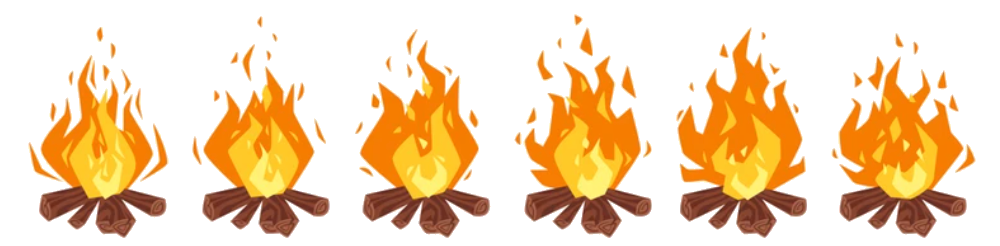
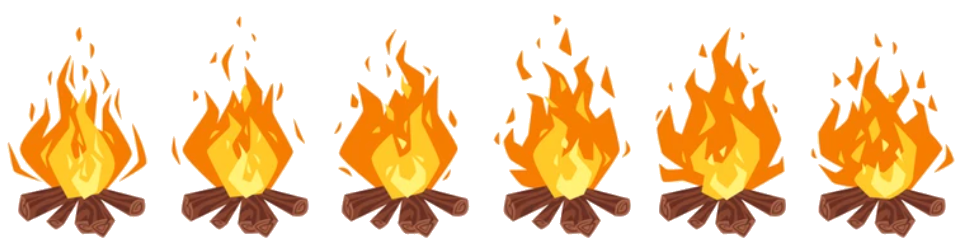
벽난로

diff --git a/src/pages/index.tsx b/src/pages/index.tsx
@@ -19,9 +19,10 @@ import Fireplace from 'components/canvas/Fireplace';
 import { getSession } from 'next-auth/react';
 import CreateLetterModal from 'components/modals/CreateLetterModal';
 import ShowLetterModal from 'components/modals/ShowLetterModal';
+import { useRouter } from 'next/router';
 
 type  Props = {
-    letterCount: number;
+    letterCount: any;
     letters: any;
     userName: string;
     userList?: string[];
@@ -29,78 +30,24 @@ type  Props = {
 
 export default function Index(props: Props) {
     const { letterCount, letters, userName, userList } = props;
-
-    const [move, setMove] = useState(false);
-    const [send, setSend] = useState(false);
+    const router = useRouter();
 
     const { data } = useSWR(
         `/api/letters`,
         fetcher
     );
 
-    const onClickSendLetter = useCallback(
-        async (data: any) => {
-            await postFetcher('/api/letters', data);
-            location.reload();
-        },
-        []
-    );
-
-    // useEffect(() => {
-    //     if (send) {
-    //         onClickSendLetter({from, to, content});
-    //         setSend(false);
-    //         setMove(false);
-    //     }
-    // }, [from, to, content, send, onClickSendLetter]);
-
-    const {
-        register,
-        handleSubmit,
-        formState: { isSubmitting },
-    } = useForm();
-
-    const onSubmit = (data: any) => console.log(data);
-
-    const addressList = useMemo(() => _.map(letters, 'to'), [letters]);
-
     return (
-        <div
-            style={{
-                backgroundImage: 'linear-gradient(CornflowerBlue,midnightblue, black)',
-                zIndex: -9999,
-            }}
-            className={
-                `${styles.container}
-                flex
-                flex-col
-                divide-y
-                divide-double` // TODO: double 스타일 적용
-            }
-        >
-            <div className="divide-y">
-                <div className="px-6 py-8 flex justify-between items-center">
-                    <h1>{userName}의 벽난로</h1>
-                </div>
+        <div className="">
+            <div className='absolute' style={{top: 100, left: 800, width: 500}}>
+                <button className='btn' onClick={() => router.push('/rank')}>랭킹 보기</button>
+                <CreateLetterModal userList={userList} />
+                <ShowLetterModal letters={letters} />
+                <h1 className='text-white'>{userName}의 벽난로</h1>
+                <h2 className='text-white'>{letterCount[userName]?.count ?? 0}개의 편지</h2>
+
             </div>
-            <div className="flex-1 flex flex-col divide-y">
-                <div className="flex-1 p-3 pl-0 flex gap-3 divide-x">
-                    <div className="pl-3 basis-1/4">
-                        <Fireplace letters={letters} />
-                    </div>
-                    <div style={{zIndex:3}}className="pl-3 basis-1/4 text-gray-100">
-                        <CreateLetterModal userList={userList} />
-                        {/* <div className="divide-y">
-                            <LetterList letters={letters} />
-                        </div> */}
-                        <ShowLetterModal letters={letters} />
-                    </div>
-                </div>
-                {/* <PostOffice /> */}
-                {/* <div>
-                    <Charactor image="/images/run.png"  move={move} setSend={setSend}/>
-                </div> */}
-            </div>
+            <Fireplace letters={letters} />
         </div>
     );
 }
@@ -118,7 +65,8 @@ export const getServerSideProps: GetServerSideProps = async (ctx) => {
     // }
     const baseUrl = `http://${ctx.req.headers.host}`;
     const { name } = ctx.query;
-    const { count: letterCount } = await fetch(baseUrl + '/api/letter-count').then((res) => res.json());
+    const groupedLetter = await fetch(baseUrl + '/api/letter-count').then((res) => res.json());
+    const letterCount = _.keyBy(groupedLetter, '_id');
     const userName = name ?? '히히'; //로그인 도입 후 userName으로
     const letters = userName ? await fetch(baseUrl + '/api/letters' + `?name=${userName}`).then((res) => res.json()) : [];
     const users = userName ? await fetch(baseUrl + '/api/users' + `?name=${userName}`).then((res) => res.json()) : [];

diff --git a/src/components/canvas/houseBackground.tsx b/src/components/canvas/houseBackground.tsx
@@ -11,8 +11,6 @@ import { useForm } from 'react-hook-form';
 import { fetcher, postFetcher } from '../../helper/Helper';
 import useSWR from 'swr';
 import _ from 'lodash';
-import NextImage from 'next/image';
-import Bonfire from './Bonfire';
 
 type Props = {
     letters: LetterType[];
@@ -23,24 +21,21 @@ export default function Fireplace(props: Props) {
 
     const canvasRef = useRef<HTMLCanvasElement>(null);
 
-    const fireplaceHeight = 621;
-    const fireplaceWidth = 795;
+    const height = 621;
+    const width = 795;
 
     const renderFireplace = useCallback((canvasContext) => {
-        const background = new Image();
-        background.src = "/images/house_background.png";
-        const fireplace = new Image();
-        fireplace.src = "/images/fireplace.png";
+        const image = new Image();
+        image.src = "/images/fireplace.png";    
 
-        fireplace.onload = () => {
-            canvasContext.drawImage(background, 0, 0, 1920, 1080);
-            canvasContext.drawImage(fireplace, 562, 255, fireplaceWidth, fireplaceHeight);
+        image.onload = () => {
+            canvasContext.drawImage(image, 0, 0, width, height);
 
             // let index = 0;
             // for (var i = 0; i < rowCount; i++) {
             //     for (var j = 0; j < colCount; j++) {
             //         canvasContext.fillStyle = _.includes(addressList, postAdress[index]) ? "#729419" : "#000000";
-            //         canvasContext.fillRect(100 + i * rowInterval, 100 + j * colInterval, windowWidth, windowfireplaceHeight );
+            //         canvasContext.fillRect(100 + i * rowInterval, 100 + j * colInterval, windowWidth, windowHeight );
             //         canvasContext.font = '28px serif';
             //         canvasContext.fillText(postAdress[index], 100 + i * rowInterval, 100 + j * colInterval);
 
@@ -48,7 +43,7 @@ export default function Fireplace(props: Props) {
             //     }
             // }
         };
-    }, [fireplaceHeight, fireplaceWidth]);
+    }, [height, width]);
 
     useEffect(() => {
         const canvas = canvasRef?.current;
@@ -61,11 +56,11 @@ export default function Fireplace(props: Props) {
         <div >
             <canvas 
                 style={{
-                    position: 'relative',
-                    zIndex: -1,
+                    // position: 'absolute',
+                    zIndex: 0,
                 }}
-                id={'canvas'} ref={canvasRef}  height={1080} width={1920} />
-                <Bonfire />
+                id={'canvas'} ref={canvasRef}  height={height} width={width} />
+            {/* <SnowFlake /> */}
         </div>
     );
 }

diff --git a/src/pages/rank.tsx b/src/pages/rank.tsx
@@ -20,6 +20,7 @@ import { getSession } from 'next-auth/react';
 import CreateLetterModal from 'components/modals/CreateLetterModal';
 import ShowLetterModal from 'components/modals/ShowLetterModal';
 import { PRESENT_TYPE } from 'types/constants';
+import { useRouter } from 'next/router';
 
 type  Props = {
     letterCount: number;
@@ -30,6 +31,7 @@ type  Props = {
 
 export default function Rank(props: Props) {
     const { letterCount, letters, userName, userList } = props;
+    const router = useRouter();
     // const groupedLetter = _.groupby(letters, 'present');
     const [rankType, setRankType] = useState('');
 
@@ -73,14 +75,16 @@ export default function Rank(props: Props) {
                         ))}
                     </select> 을 가장 많이 얻을 사람은?
                 </div>
+                <button className='btn' onClick={() => router.push('/')}>돌아가기</button>
+
             </div>
-            <div className="flex-1 flex flex-col divide-y">
+            {/* <div className="flex-1 flex flex-col divide-y">
                 <div className="flex-1 p-3 pl-0 flex gap-3 divide-x">
                     <div className="pl-3 basis-1/4">
                         <Fireplace letters={letters} />
                     </div>
                 </div>
-            </div>
+            </div> */}
         </div>
     );
 }
@@ -98,7 +102,7 @@ export const getServerSideProps: GetServerSideProps = async (ctx) => {
     // }
     const baseUrl = `http://${ctx.req.headers.host}`;
     const { name } = ctx.query;
-    const { count: letterCount } = await fetch(baseUrl + '/api/letter-count').then((res) => res.json());
+    // const { count: letterCount } = await fetch(baseUrl + '/api/letter-count').then((res) => res.json());
     const userName = name ?? '히히'; //로그인 도입 후 userName으로
     const letters = await fetch(baseUrl + '/api/letters').then((res) => res.json());
     // const ranking = await fetch(baseUrl + '/api/rank').then((res) => res.json());
@@ -106,6 +110,6 @@ export const getServerSideProps: GetServerSideProps = async (ctx) => {
     const userList = _.map(users, 'name');
 console.log('+++ rnak', letters);
     return {
-        props: {  letterCount, letters, userName, userList },
+        props: {  letterCount:0, letters, userName, userList },
     };
 };

diff --git a/src/components/canvas/Bonfire.tsx b/src/components/canvas/Bonfire.tsx
@@ -1,0 +1,68 @@
+import React, {
+    useState,
+    useCallback,
+    useRef,
+    useEffect,
+    useMemo,
+} from 'react';
+import _ from 'lodash';
+
+type Props = {
+};
+
+export default function Bonfire(props: Props) {
+    const bonFireRef = useRef<HTMLCanvasElement>(null);
+    
+    const bonFireImageRef = useRef<HTMLImageElement>();
+
+    // Define the size of a frame
+    const frameWidth = 160.5;
+    const frameHeight = 246;
+
+    // Rows and columns start from 0
+    const row = useRef(0);
+    const column = useRef(0);
+
+    const x = 890;
+    const y = 610;
+
+    const intervalId = useRef(null);
+
+    const renderbonFire = useCallback((bonFireImageRef) => {
+        const bonFire = bonFireRef?.current;
+        const bonFireContext = bonFire?.getContext('2d');
+
+        bonFireContext?.clearRect(0, 0, frameHeight, frameWidth);
+        bonFireContext?.drawImage(bonFireImageRef, column.current*frameWidth, 0, frameWidth, frameHeight, 0, 0, frameWidth, frameHeight);
+
+        column.current < 5 ? column.current++ : column.current = 0;
+
+    }, [frameHeight, frameWidth]);
+
+    useEffect(() => {
+        bonFireImageRef.current = new Image();
+        bonFireImageRef.current.src = '/images/bonfire.png';
+
+        // const bonFire = bonFireRef?.current;
+        // const bonFireContext = bonFire?.getContext('2d');
+
+        bonFireImageRef.current.onload = () => {
+            if (!intervalId.current) {
+                intervalId.current = setInterval(() => renderbonFire(bonFireImageRef.current), 100);
+            }
+        };
+
+    }, [frameHeight, frameWidth, renderbonFire]);
+
+
+    return (
+        <canvas
+            style={{
+                position: 'absolute',
+                zIndex: 1,
+                top: y,
+                left: x,
+            }}
+            id={'bonfire'} ref={bonFireRef}  height={frameHeight} width={frameWidth} />
+    );
+}

diff --git a/src/pages/api/letter-count.ts b/src/pages/api/letter-count.ts
@@ -5,8 +5,11 @@ import connectToDatabase from '../../util/mongoose';
 import _ from 'lodash';
 const Letter = require('../../models/Letter');
 
-const getLetterCount = () => {
-    return Letter.distinct('from');
+const getLetterCount = (name?: string | string[]) => {
+    return Letter.aggregate([
+        {"$group" : {'_id':"$to", count:{$sum:1}}}
+    ]);
+    // return Letter.distinct('from');
     // .aggregate([
     //     {"$group" : {'_id':"$from", count:{$sum:1}}}
     // ]);
@@ -22,9 +25,10 @@ export default async function letterCountHandler(
 
     switch (method) {
         case 'GET':
-            const letters = await getLetterCount();
-            console.log('+++ +++', letters.length);
-            res.status(200).json({count: letters.length});
+            const { name } = query;
+            const letters = await getLetterCount(name);
+            console.log('+++ +++', letters);
+            res.status(200).json(letters);
             break;
         default:
             res.setHeader('Allow', ['GET']);
